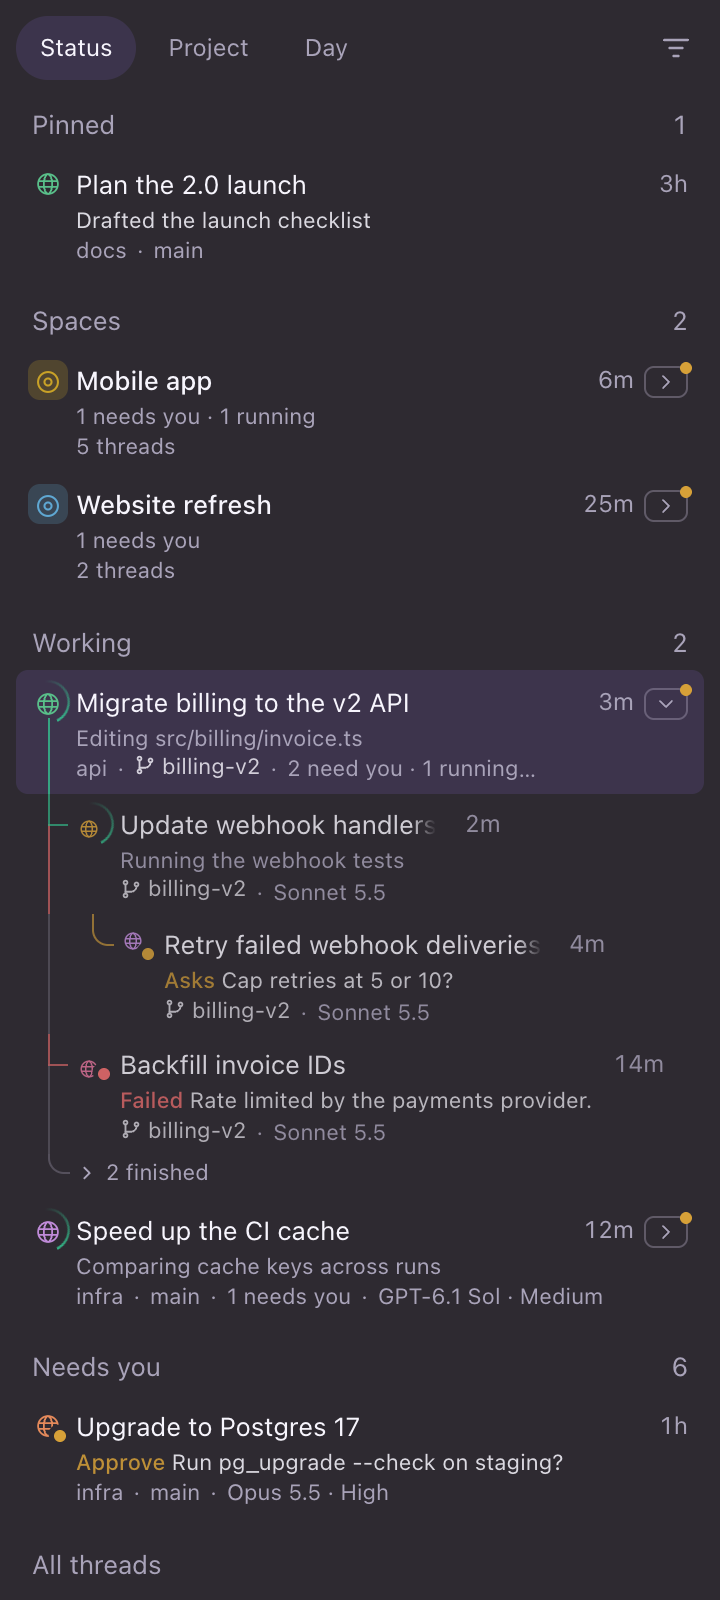
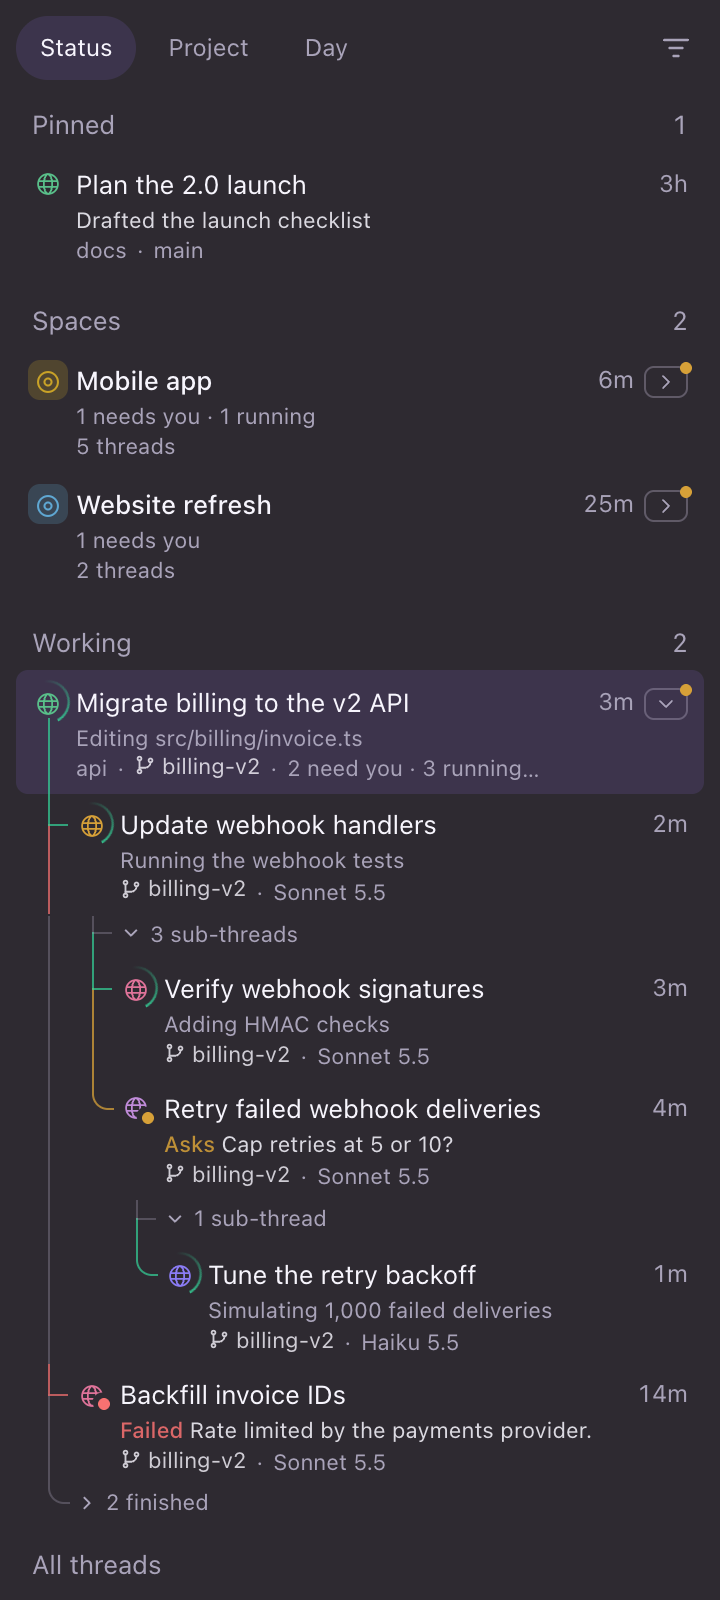
fix(focus-sidebar): full-width sub-threads, nested sub-thread folds, filter menu fits
- Sub-thread rows carried data-branch for their line colour, which also matched
  the meta line's inline-flex branch marker, so they shrank to their content.
  Renamed to data-line-kind.
- Any sub-thread with its own sub-threads gets an "N sub-threads" fold under it,
  styled like "N finished"; folded, it says how many need you. → / ← work on it
  and on the row. Folds persist in focus.subCollapsed.
- Filter menu sizes to the sidebar (up to 21rem); its two-column grids shrink
  and wrap labels instead of scrolling sideways.

diff --git a/tweaks/focus-sidebar/focus-sidebar.css b/tweaks/focus-sidebar/focus-sidebar.css
@@ -588,7 +588,7 @@ html:not([data-amp-focus="on"]) [data-amp-focus-root] > :not([data-amp-focus-foo
 
 /* ---------- "N finished": a disclosure listing a family's finished sub-threads ---------- */
 [data-finished] { display: flex; flex-direction: column; }
-[data-finished-toggle], [data-finished-more] {
+[data-finished-toggle], [data-finished-more], [data-sub-toggle] {
   all: unset;
   box-sizing: border-box;
   display: inline-flex;
@@ -603,17 +603,19 @@ html:not([data-amp-focus="on"]) [data-amp-focus-root] > :not([data-amp-focus-foo
   cursor: default;
   transition: color 140ms var(--ease-out);
 }
-[data-finished-toggle] svg {
+[data-finished-toggle] svg, [data-sub-toggle] svg {
   width: 0.6875rem;
   height: 0.6875rem;
   transform: rotate(-90deg);
   transition: transform 260ms var(--ease-out);
 }
 [data-finished][data-open] [data-finished-toggle] svg { transform: rotate(0deg); }
+[data-sub-toggle][aria-expanded="true"] svg { transform: rotate(0deg); }
+[data-sub-toggle] [data-needs] { color: var(--color-warning); }
 @media (pointer: fine) {
-  [data-finished-toggle]:hover, [data-finished-more]:hover { color: var(--color-foreground); }
+  [data-finished-toggle]:hover, [data-finished-more]:hover, [data-sub-toggle]:hover { color: var(--color-foreground); }
 }
-[data-finished-toggle]:focus-visible, [data-finished-more]:focus-visible { outline: 2px solid var(--color-ring); outline-offset: -2px; }
+[data-finished-toggle]:focus-visible, [data-finished-more]:focus-visible, [data-sub-toggle]:focus-visible { outline: 2px solid var(--color-ring); outline-offset: -2px; }
 [data-finished-more] { margin-left: calc(var(--icon-w) + var(--gap)); }
 
 [data-finished-body] {
@@ -639,7 +641,7 @@ html:not([data-amp-focus="on"]) [data-amp-focus-root] > :not([data-amp-focus-foo
 [data-amp-focus-finished] [data-amp-focus-row] { padding-top: 0.25rem; padding-bottom: 0.3125rem; }
 
 @media (pointer: coarse) {
-  [data-finished-toggle], [data-finished-more] { min-height: 2.75rem; }
+  [data-finished-toggle], [data-finished-more], [data-sub-toggle] { min-height: 2.75rem; }
 }
 
 /* ---------- family tree: rails, branches, a smooth elbow at the end ----------
@@ -653,8 +655,8 @@ html:not([data-amp-focus="on"]) [data-amp-focus-root] > :not([data-amp-focus-foo
 }
 [data-amp-focus-item]:has(> [data-amp-focus-row][data-space]) { --tree: color-mix(in oklab, var(--space-color, var(--color-muted-foreground)) 50%, transparent); }
 
-[data-amp-focus-child], [data-kids-more], [data-finished] { position: relative; }
-[data-amp-focus-child] { margin-left: calc((var(--d, 1) - 1) * var(--indent)); }
+[data-amp-focus-child], [data-kids-more], [data-finished], [data-sub-toggle] { position: relative; }
+[data-amp-focus-child], [data-sub-toggle] { margin-left: calc((var(--d, 1) - 1) * var(--indent)); }
 [data-tree] { position: absolute; inset: 0; pointer-events: none; display: none; }
 /* Only the family's own branches (sub-threads, "Show more", "N finished"); the finished rows draw their own subtree. */
 [data-amp-focus-item][data-tree-on] > [data-family] > [data-family-inner] > * > [data-tree] { display: block; }
@@ -673,7 +675,7 @@ html:not([data-amp-focus="on"]) [data-amp-focus-root] > :not([data-amp-focus-foo
   border-bottom-left-radius: 0.5rem;
 }
 /* The "N finished" and "Show more" branches meet the line at their own text's centre. */
-[data-finished] > [data-tree], [data-kids-more] > [data-tree] { --elbow-y: calc(0.125rem + var(--text-xs--line-height) / 2); }
+[data-finished] > [data-tree], [data-kids-more] > [data-tree], [data-sub-toggle] > [data-tree] { --elbow-y: calc(0.125rem + var(--text-xs--line-height) / 2); }
 [data-finished] > [data-tree] { bottom: auto; height: calc(0.5rem + var(--text-xs--line-height)); }
 
 /* Connector from the parent's icon down to its first branch. */
@@ -809,16 +811,19 @@ html:not([data-amp-focus="on"]) [data-amp-focus-root] > :not([data-amp-focus-foo
 @media (pointer: coarse) { [data-retry-label] { opacity: 1; } }
 
 /* ---------- filter menu: sections, grids, segmented controls ---------- */
-[data-amp-focus-menu] { min-width: 0; width: 19rem; max-height: min(36rem, 80vh); display: flex; flex-direction: column; overflow: hidden; }
+/* As wide as the sidebar allows (up to 21rem); columns shrink and labels wrap, so nothing scrolls sideways. */
+[data-amp-focus-menu] { min-width: 0; width: min(21rem, calc(100cqi - 2 * var(--row-x))); max-height: min(36rem, 80vh); display: flex; flex-direction: column; overflow: hidden; }
 [data-menu-top] { display: flex; align-items: baseline; justify-content: space-between; padding: 0.375rem 0.625rem 0.25rem; }
 [data-menu-top] [data-menu-title] { padding: 0; }
 [data-menu-reset] { all: unset; font-size: var(--text-xs); color: var(--color-muted-foreground); cursor: default; }
 [data-menu-reset]:hover { color: var(--color-foreground); }
-[data-menu-body] { overflow-y: auto; padding: 0 0.125rem; }
+[data-menu-body] { overflow: hidden auto; padding: 0 0.125rem; }
 [data-menu-section] { padding: 0.25rem 0 0.375rem; }
 [data-menu-section] + [data-menu-section] { border-top: 1px solid var(--color-border); }
 [data-menu-section] [data-menu-heading] { padding: 0.25rem 0.625rem 0.125rem; }
-[data-amp-focus-menu] [data-grid] { display: grid; grid-template-columns: 1fr 1fr; column-gap: 0.125rem; }
+[data-amp-focus-menu] [data-grid] { display: grid; grid-template-columns: repeat(2, minmax(0, 1fr)); column-gap: 0.125rem; }
+[data-amp-focus-menu] [data-grid] [data-f] { min-width: 0; }
+[data-amp-focus-menu] [data-grid] [data-label] { white-space: normal; overflow-wrap: anywhere; }
 [data-amp-focus-menu] [data-grid][data-scroll] { max-height: 7.5rem; overflow-y: auto; }
 [data-amp-focus-menu] [data-grid] [data-f] { padding-inline: 0.625rem !important; }
 [data-seg] {
@@ -840,7 +845,7 @@ html:not([data-amp-focus="on"]) [data-amp-focus-root] > :not([data-amp-focus-foo
   width: auto;
 }
 [data-amp-focus-menu] [data-seg] [data-f][aria-checked="true"] { background: var(--color-popover); color: var(--color-foreground); box-shadow: 0 1px 2px rgb(0 0 0 / 0.25); }
-[data-seg-row] { display: flex; align-items: center; justify-content: space-between; padding-left: 0.625rem; }
+[data-seg-row] { display: flex; flex-wrap: wrap; align-items: center; justify-content: space-between; padding-left: 0.625rem; }
 [data-seg-row] > span { font-size: var(--text-sm); color: var(--color-muted-foreground); }
 [data-seg-row] [data-seg] { margin-left: 0.5rem; }
 [data-menu-footer] { display: flex; flex-direction: column; border-top: 1px solid var(--color-border); padding-top: 0.25rem; }
@@ -850,9 +855,9 @@ html:not([data-amp-focus="on"]) [data-amp-focus-root] > :not([data-amp-focus-foo
 [data-menu-top] [data-menu-title] { white-space: nowrap; }
 /* Family lines take the state of the thread they lead to: working green, waiting orange, failed red; done/idle stay grey. */
 [data-amp-focus-item] { --line-working: color-mix(in oklab, var(--color-success) 70%, transparent); --line-waiting: color-mix(in oklab, var(--color-warning) 75%, transparent); --line-failed: color-mix(in oklab, var(--color-destructive) 70%, transparent); }
-[data-branch="working"] { --branch: var(--line-working); }
-[data-branch="approve"], [data-branch="asking"], [data-branch="stalled"] { --branch: var(--line-waiting); }
-[data-branch="failed"] { --branch: var(--line-failed); }
+[data-line-kind="working"] { --branch: var(--line-working); }
+[data-line-kind="approve"], [data-line-kind="asking"], [data-line-kind="stalled"] { --branch: var(--line-waiting); }
+[data-line-kind="failed"] { --branch: var(--line-failed); }
 [data-next="working"] { --next: var(--line-working); }
 [data-next="approve"], [data-next="asking"], [data-next="stalled"] { --next: var(--line-waiting); }
 [data-next="failed"] { --next: var(--line-failed); }

diff --git a/tweaks/focus-sidebar/render/tree.js b/tweaks/focus-sidebar/render/tree.js
@@ -1,6 +1,6 @@
 // Families: sub-thread order, guide lines (rails, branches, elbows, state colours) and the "N finished" list.
 import { dismissed } from "../actions.js";
-import { EASE, FINISHED_PAGE, ICON, MAX_DEPTH, MAX_KIDS } from "../config.js";
+import { EASE, FINISHED_PAGE, ICON, MAX_DEPTH, MAX_KIDS, NEEDS } from "../config.js";
 import { setHTML, setText } from "./dom-util.js";
 import { leave, render } from "./list.js";
 import { applyRow, createChild } from "./rows.js";
@@ -25,17 +25,40 @@ export function treeOrder(rootId, kids, tail = false) {
     if (!byParent.has(pid)) byParent.set(pid, []);
     byParent.get(pid).push(k);
   }
+  const below = id => (byParent.get(id) ?? []).flatMap(k => [k, ...below(k.id)]);
   const out = [];
   const walk = (pid, depth, rails) => {
     const list = byParent.get(pid) ?? [];
     list.forEach((k, i) => {
       const last = i === list.length - 1 && !(depth === 1 && tail);
       out.push({ k, depth, last, rails });
-      if (depth < 12) walk(k.id, depth + 1, [...rails, !last]);
+      if (!byParent.has(k.id) || depth >= 12) return;
+      // A sub-thread with its own sub-threads gets a disclosure as its first branch; collapsed, it's the only one.
+      const open = !prefs.subCollapsed.has(k.id);
+      const desc = below(k.id);
+      out.push({ sub: k.id, open, count: desc.length, needs: desc.filter(d => NEEDS.has(d.kind)).length, depth: depth + 1, last: !open, rails: [...rails, !last] });
+      if (open) walk(k.id, depth + 1, [...rails, !last]);
     });
   };
   walk(rootId, 1, []);
   return out;
+}
+
+// "N sub-threads" under a sub-thread: the same quiet disclosure as "N finished". Collapsed, it says what's waiting.
+function applySubToggle(btn, node) {
+  btn.setAttribute("aria-expanded", String(node.open));
+  btn.dataset.of = node.sub;
+  const noun = `${node.count} sub-thread${node.count === 1 ? "" : "s"}`;
+  const needs = !node.open && node.needs ? ` · <span data-needs>${node.needs} need${node.needs === 1 ? "s" : ""} you</span>` : "";
+  setHTML(btn.querySelector("[data-label]"), noun + needs);
+}
+
+export function setSubOpen(id, open) {
+  if (open === !prefs.subCollapsed.has(id)) return false;
+  open ? prefs.subCollapsed.delete(id) : prefs.subCollapsed.add(id);
+  saveIds("focus.subCollapsed", prefs.subCollapsed);
+  render(true);
+  return true;
 }
 
 // Guide lines for one tree row: ancestor rails, then this row's branch (a smooth elbow if it's the last one).
@@ -66,22 +89,45 @@ export function applyItem(el, it, cls, animate, isNew = false) {
   const inner = family.firstElementChild;
   const showAll = prefs.kidsAll.has(it.id);
   const truncated = !showAll && kids.length > MAX_KIDS;
+  const kindOf = n => n.k?.kind ?? "";
   const all = treeOrder(it.id, kids, truncated || !!it.finished);
-  const visible = truncated ? all.slice(0, MAX_KIDS) : all;
-  const hiddenCount = all.length - visible.length;
+  let shownRows = 0;
+  const visible = truncated ? all.filter(n => n.sub || ++shownRows <= MAX_KIDS) : all;
+  const hiddenCount = all.filter(n => !n.sub).length - visible.filter(n => !n.sub).length;
   // Guide lines only when there's more than one branch to show; a single sub-thread just indents.
   el.toggleAttribute("data-tree-on", visible.length + (hiddenCount ? 1 : 0) + (it.finished ? 1 : 0) > 1);
   const existing = new Map([...inner.querySelectorAll(":scope > [data-amp-focus-child][data-thread-id]")].map(c => [c.dataset.threadId, c]));
+  for (const b of inner.querySelectorAll(":scope > [data-sub-toggle]:not([data-leaving])")) existing.set(`sub:${b.dataset.of}`, b);
   let prev = null;
   // Line colours: the run down to each sub-thread (and its branch) takes that thread's state; the run on past it
   // takes the next sibling's. The parent's connector takes the first sub-thread's.
   const nextKind = i => {
     const d = visible[i].depth;
-    for (let j = i + 1; j < visible.length; j++) { if (visible[j].depth < d) break; if (visible[j].depth === d) return visible[j].k.kind; }
+    for (let j = i + 1; j < visible.length; j++) { if (visible[j].depth < d) break; if (visible[j].depth === d) return kindOf(visible[j]); }
     return "";
   };
-  el.dataset.firstBranch = visible[0]?.k.kind ?? "";
+  el.dataset.firstBranch = visible[0] ? kindOf(visible[0]) : "";
   visible.forEach((node, i) => {
+    if (node.sub) {
+      let btn = existing.get(`sub:${node.sub}`);
+      if (btn) existing.delete(`sub:${node.sub}`);
+      else {
+        btn = document.createElement("button");
+        btn.type = "button";
+        btn.tabIndex = -1;
+        btn.setAttribute("data-sub-toggle", "");
+        btn.innerHTML = `<span data-tree aria-hidden="true"></span>${ICON.chevron}<span data-label></span>`;
+      }
+      applyTree(btn, node.depth, node.last, node.rails);
+      const nk = nextKind(i);
+      if (btn.dataset.next !== nk) btn.dataset.next = nk;
+      applySubToggle(btn, node);
+      let want = prev ? prev.nextElementSibling : inner.firstElementChild;
+      while (want?.hasAttribute("data-leaving")) want = want.nextElementSibling;
+      if (btn !== want) inner.insertBefore(btn, want);
+      prev = btn;
+      return;
+    }
     const c = node.k;
     let ch = existing.get(c.id);
     if (ch) existing.delete(c.id);
@@ -90,7 +136,7 @@ export function applyItem(el, it, cls, animate, isNew = false) {
       if (animate && expanded && !isNew) requestAnimationFrame(() => ch.animate([{ opacity: 0, transform: "translateY(-3px)" }, { opacity: 1, transform: "none" }], { duration: 220, easing: EASE }));
     }
     applyTree(ch, node.depth, node.last, node.rails);
-    if (ch.dataset.branch !== c.kind) ch.dataset.branch = c.kind;
+    if (ch.dataset.lineKind !== c.kind) ch.dataset.lineKind = c.kind;
     const nk = nextKind(i);
     if (ch.dataset.next !== nk) ch.dataset.next = nk;
     applyRow(ch.querySelector(":scope > [data-amp-focus-row]"), c, { child: true, cls, mode: prefs.mode });

diff --git a/tweaks/focus-sidebar/input.js b/tweaks/focus-sidebar/input.js
@@ -6,7 +6,7 @@ import { FINISHED_PAGE } from "./config.js";
 import { recompute } from "./live.js";
 import { applyFilter, menuHTML, openMenu } from "./menu.js";
 import { isShown, recover, render, swipe } from "./render/list.js";
-import { setFinishedOpen } from "./render/tree.js";
+import { setFinishedOpen, setSubOpen } from "./render/tree.js";
 import { S } from "./state.js";
 import { applyMode, prefs, saveIds, store } from "./store.js";
 
@@ -57,7 +57,7 @@ export function endSwipe() {
 }
 
 // Arrow order: rows, plus the "N finished" disclosure and "Show more" where visible.
-export const navOrder = root => [...root.querySelectorAll("[data-thread-id] > [data-amp-focus-row], [data-kids-more], [data-finished-toggle], [data-finished-more]")].filter(isShown);
+export const navOrder = root => [...root.querySelectorAll("[data-thread-id] > [data-amp-focus-row], [data-sub-toggle], [data-kids-more], [data-finished-toggle], [data-finished-more]")].filter(isShown);
 
 export function focusNav(root, el) {
   root.querySelectorAll('[tabindex="0"]').forEach(r => r.setAttribute("tabindex", "-1"));
@@ -73,6 +73,12 @@ export function onDisclosureKey(e, el, root) {
   let handled = true;
   if (e.key === "ArrowDown") order[i + 1] && focusNav(root, order[i + 1]);
   else if (e.key === "ArrowUp") order[i - 1] && focusNav(root, order[i - 1]);
+  else if (el.matches("[data-sub-toggle]") && ["ArrowRight", "ArrowLeft", "Enter", " "].includes(e.key)) {
+    const of = el.dataset.of;
+    const open = e.key === "ArrowRight" ? true : e.key === "ArrowLeft" ? false : prefs.subCollapsed.has(of);
+    if (!setSubOpen(of, open) && e.key === "ArrowLeft") focusNav(root, el.closest("[data-amp-focus-item]").querySelector(`[data-thread-id="${CSS.escape(of)}"] > [data-amp-focus-row]`));
+    requestAnimationFrame(() => el.isConnected && el.focus());
+  }
   else if (el.matches("[data-finished-toggle]") && (e.key === "ArrowRight" || e.key === "Enter" || e.key === " ")) {
     if (e.key === "ArrowRight" && prefs.finishedOpen.has(id)) handled = false;
     else setFinishedOpen(id, e.key === "ArrowRight" ? true : !prefs.finishedOpen.has(id));
@@ -88,10 +94,10 @@ export function onDisclosureKey(e, el, root) {
 }
 
 // Keyboard on our rows runs in the capture phase so Amp's own sidebar key bindings don't swallow it.
-  // Keyboard: arrows move between rows; →/← expand/collapse a family; Enter opens; E archives; S snoozes;
+  // Keyboard: arrows move between rows; →/← expand/collapse a family (or a sub-thread's own); Enter opens; E archives; S snoozes;
   // ⇧F10 / context-menu key opens Amp's menu. Same keys Amp uses where it has them (E = Archive).
 export function onRowKey(e) {
-    const row = e.target.closest?.("[data-amp-focus-row], [data-kids-more], [data-finished-toggle], [data-finished-more]");
+    const row = e.target.closest?.("[data-amp-focus-row], [data-sub-toggle], [data-kids-more], [data-finished-toggle], [data-finished-more]");
     if (!row || e.target !== row || e.metaKey || e.ctrlKey || e.altKey) return;
     const root = row.closest("[data-amp-focus-root]");
     if (!root) return;
@@ -109,6 +115,7 @@ export function onRowKey(e) {
     // Letter shortcuts only when the row was reached by keyboard (a click focuses it too; typing must not archive).
     if ((key === "e" || key === "s" || key === "d" || key === "p") && !row.matches(":focus-visible")) return;
     const expand = open => {
+      if (item && holder !== item) return !!item.querySelector(`[data-sub-toggle][data-of="${CSS.escape(id)}"]`) && setSubOpen(id, open);
       if (!item || holder !== item || !item.querySelector(":scope > [data-family]:not([hidden])")) return false;
       if (prefs.expanded.has(id) === open) return false;
       open ? prefs.expanded.add(id) : prefs.expanded.delete(id);
@@ -175,6 +182,11 @@ export function wireRoot(root) {
       e.preventDefault();
       const id = finToggle.closest("[data-amp-focus-item]").dataset.threadId;
       return setFinishedOpen(id, !prefs.finishedOpen.has(id));
+    }
+    const subToggle = e.target.closest("[data-sub-toggle]");
+    if (subToggle) {
+      e.preventDefault();
+      return setSubOpen(subToggle.dataset.of, prefs.subCollapsed.has(subToggle.dataset.of));
     }
     const kidsMore = e.target.closest("[data-kids-more]");
     if (kidsMore) {

diff --git a/tweaks/focus-sidebar/_demo/threads.js b/tweaks/focus-sidebar/_demo/threads.js
@@ -29,7 +29,11 @@ export const THREADS = [
     id: "T-billing", title: "Migrate billing to the v2 API", state: "working", status: "Editing src/billing/invoice.ts", repo: "api", branch: "billing-v2", model: "claude-opus-5-5", effort: "high", ago: 3, active: true,
     kids: [
       { id: "T-webhooks", title: "Update webhook handlers", state: "working", status: "Running the webhook tests", repo: "api", branch: "billing-v2", model: "claude-sonnet-5-5", ago: 2,
-        kids: [{ id: "T-retries", title: "Retry failed webhook deliveries", state: "asking", status: "Cap retries at 5 or 10?", repo: "api", branch: "billing-v2", model: "claude-sonnet-5-5", ago: 4 }] },
+        kids: [
+          { id: "T-retries", title: "Retry failed webhook deliveries", state: "asking", status: "Cap retries at 5 or 10?", repo: "api", branch: "billing-v2", model: "claude-sonnet-5-5", ago: 4,
+            kids: [{ id: "T-backoff", title: "Tune the retry backoff", state: "working", status: "Simulating 1,000 failed deliveries", repo: "api", branch: "billing-v2", model: "claude-haiku-5-5", ago: 1 }] },
+          { id: "T-sigs", title: "Verify webhook signatures", state: "working", status: "Adding HMAC checks", repo: "api", branch: "billing-v2", model: "claude-sonnet-5-5", ago: 3 },
+        ] },
       { id: "T-backfill", title: "Backfill invoice IDs", state: "error", error: "Rate limited by the payments provider. Try again later.", repo: "api", branch: "billing-v2", model: "claude-sonnet-5-5", ago: 14 },
       { id: "T-notes", title: "Write migration notes", state: "idle", status: "Wrote MIGRATION.md", ago: 30 },
       { id: "T-types", title: "Generate API types", state: "idle", status: "Generated 48 types", ago: 45 },

diff --git a/tweaks/focus-sidebar/store.js b/tweaks/focus-sidebar/store.js
@@ -22,6 +22,7 @@ export const prefs = {
   finishedOpen: new Set(store.get("focus.finishedOpen", [])), // families whose finished sub-threads are listed
   finishedShown: new Map(), // per family: how many finished rows are listed (grows with "Show more")
   kidsAll: new Set(), // families showing all active sub-threads (this session)
+  subCollapsed: new Set(store.get("focus.subCollapsed", [])), // sub-threads whose own sub-threads are folded away
 };
 
 // Filters are per view: each of Status / Project / Day keeps its own.

diff --git a/tweaks/focus-sidebar/README.md b/tweaks/focus-sidebar/README.md
@@ -6,7 +6,7 @@ Swaps Amp's thread list for just the threads that need you and the ones still wo
 | --- | --- |
 | <img src="images/before.png" width="360" alt="Amp's thread list: every space, thread and sub-thread"> | <img src="images/after.png" width="360" alt="The focus sidebar: pinned, spaces, working and needs-you sections"> |
 
-Threads are grouped by Status, Project or Day, with a filter menu at the top right for what each view shows. Pinned threads (Amp's own pins) stay at the top of Status even when idle, and Amp's search shows its matches in the same rows. Sub-threads and Spaces nest under the thread that started them (from Amp's own lineage, so a sub-thread of a sub-thread keeps its place even where Amp's list flattens it), and a family's finished threads sit under "N finished".
+Threads are grouped by Status, Project or Day, with a filter menu at the top right for what each view shows. Pinned threads (Amp's own pins) stay at the top of Status even when idle, and Amp's search shows its matches in the same rows. Sub-threads and Spaces nest under the thread that started them (from Amp's own lineage, so a sub-thread of a sub-thread keeps its place even where Amp's list flattens it), and a family's finished threads sit under "N finished". A sub-thread with sub-threads of its own gets an "N sub-threads" fold under it (→ and ← work on the row too); folded, it says how many of them need you.
 
 | Grouped by project | Filters |
 | --- | --- |
